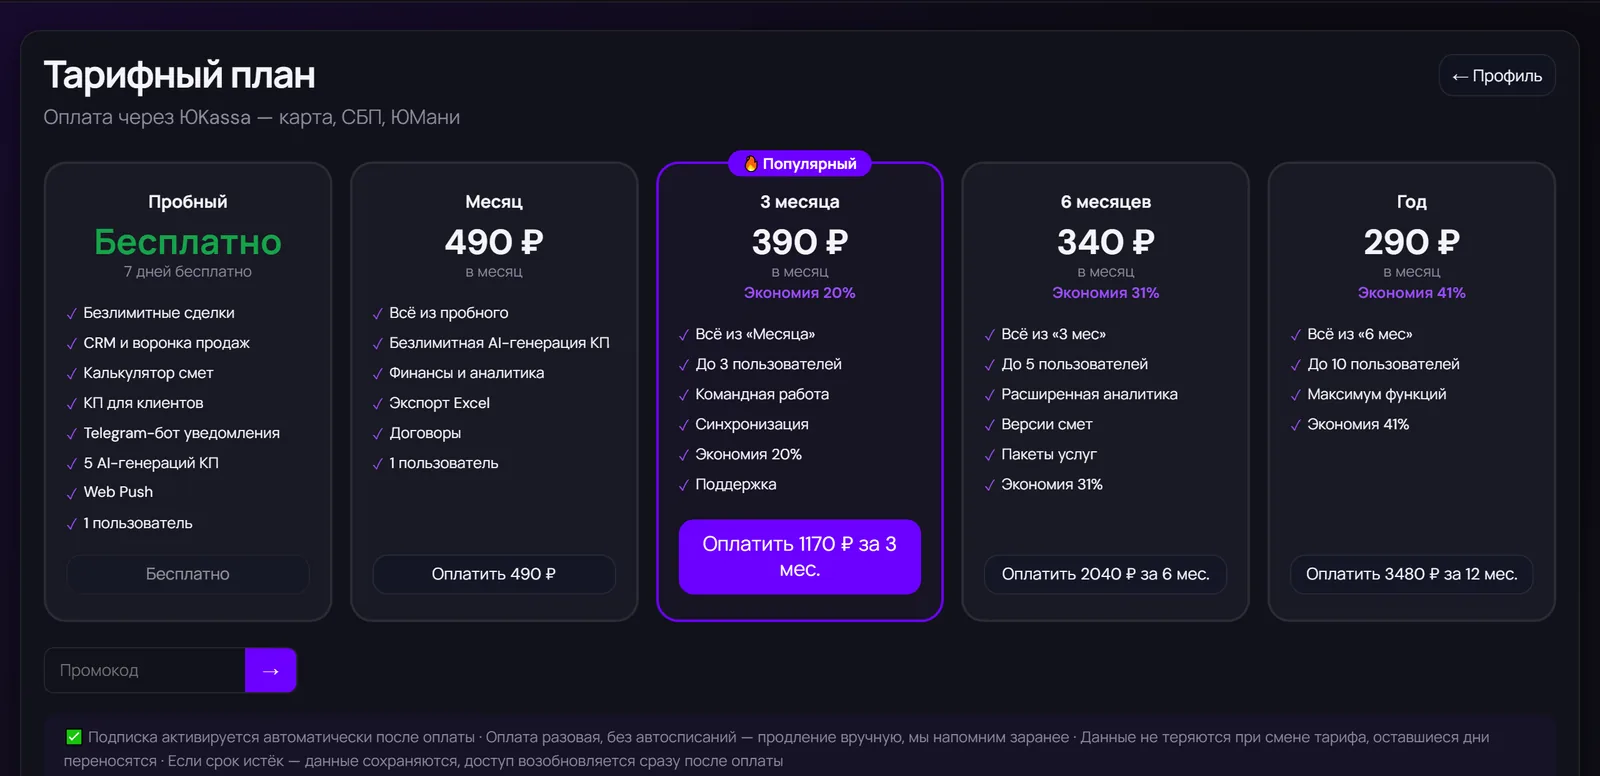
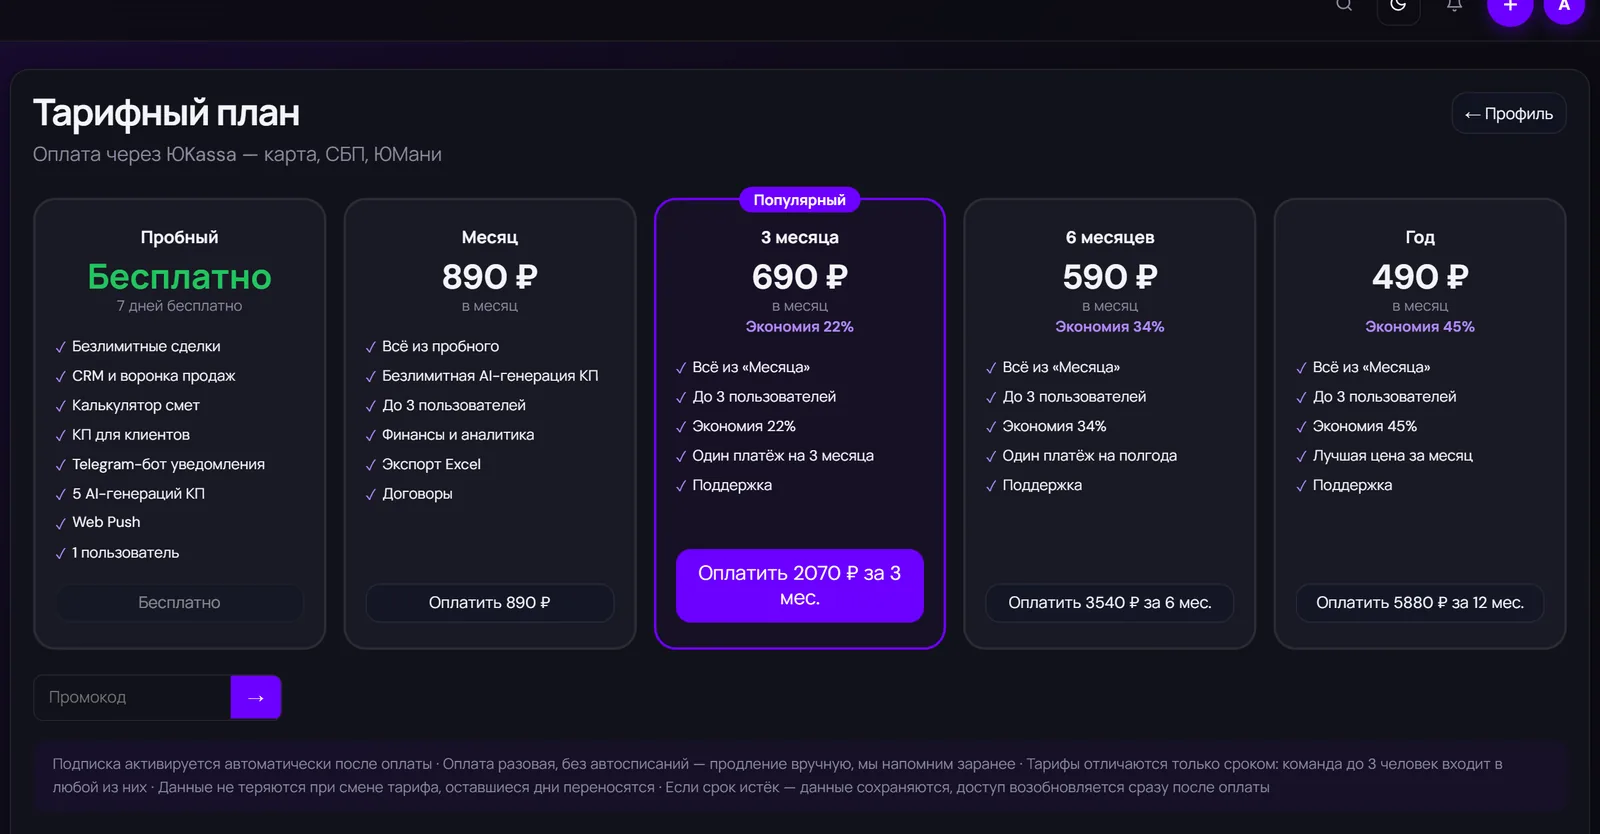
perf: онбординг в WebP — минус мегабайт из установки, и цены на слайде настоящие
Service Worker precache весил 3,5 МБ, из них 1 МБ — шесть PNG онбординга
(plans.png один 353 КБ). Их скачивали при установке ВСЕ, включая тех, кто
онбординг ни разу не откроет. Плюс снимки были 2560px шириной, а показывает
их модалка максимум в 880px.

1600px (2× для retina) + WebP q82: 984 КБ → 211 КБ, установка 3514 → 2535 КБ.
Из STATIC_ASSETS убраны совсем — обработчик fetch и так кэширует любой .webp
по факту запроса, поэтому со второго показа они берутся из кэша, а пока не
скачаны, <img onerror> открывает CSS-мокап. Текст на скриншотах проверен
глазами, не поплыл.

Заодно всплыло, что слайд с тарифами показывал цены ДО 08.08 — 490/390/340/290 ₽
вместо 890/690/590/490 — и «до 3/5/10 пользователей», которых нет
(PAID_MAX_USERS = 3 на любом оплаченном). То есть первое, что видел новый
человек, обещало почти вдвое дешевле. Пересняли с живого приложения.

Сторож привязывает картинку к данным: меняются цены в PLANS — тест падает и
просит переснять скриншот. Проверено подменой цены.

diff --git a/tests/suites/billing.js b/tests/suites/billing.js
@@ -94,6 +94,30 @@ module.exports = async function ({ browser, baseUrl, test }) {
     await context.close();
   });
 
+  // Цены, которые обязан показывать скриншот онбординга onboarding/plans.webp.
+  // Меняете PLANS — пересоздайте картинку, иначе первое, что видит новый человек,
+  // это старый прайс. Так уже было: 08.08 цены подняли до 890 ₽, а слайд онбординга
+  // до 11.08 обещал 490/390/340/290 ₽ и «до 3/5/10 пользователей», которых нет
+  // (PAID_MAX_USERS = 3 на любом оплаченном). Скриншот снимается локально:
+  // Playwright → app.go("plans"), тёмная тема, кадр по .plan-card, 1600px, webp q82.
+  const ONBOARDING_SHOT_PRICES = [0, 890, 690, 590, 490];
+
+  await test("онбординг: скриншот тарифов не разошёлся с PLANS", async () => {
+    const { context, page } = await bootLocal(browser, baseUrl);
+    const prices = await page.evaluate(() => {
+      const src = [...document.scripts].map(s => s.src).find(s => /app\.js/.test(s));
+      return fetch(src).then(r => r.text()).then(t => {
+        const block = t.slice(t.indexOf("const PLANS = ["));
+        return [...block.slice(0, block.indexOf("];")).matchAll(/price:\s*(\d+)/g)].map(m => +m[1]);
+      });
+    });
+    await context.close();
+    assert(prices.length === ONBOARDING_SHOT_PRICES.length && prices.every((p, i) => p === ONBOARDING_SHOT_PRICES[i]),
+      "цены в PLANS изменились (" + prices.join("/") + "), а скриншот онбординга обещает " +
+      ONBOARDING_SHOT_PRICES.join("/") + ".\n" +
+      "Пересними onboarding/plans.webp и обнови ONBOARDING_SHOT_PRICES в этом тесте.");
+  });
+
   await test("тарифы: PLANS не содержит числа мест (места развязаны с периодом)", async () => {
     const { context, page } = await bootLocal(browser, baseUrl);
     await page.evaluate(() => window.app.go("plans"));
